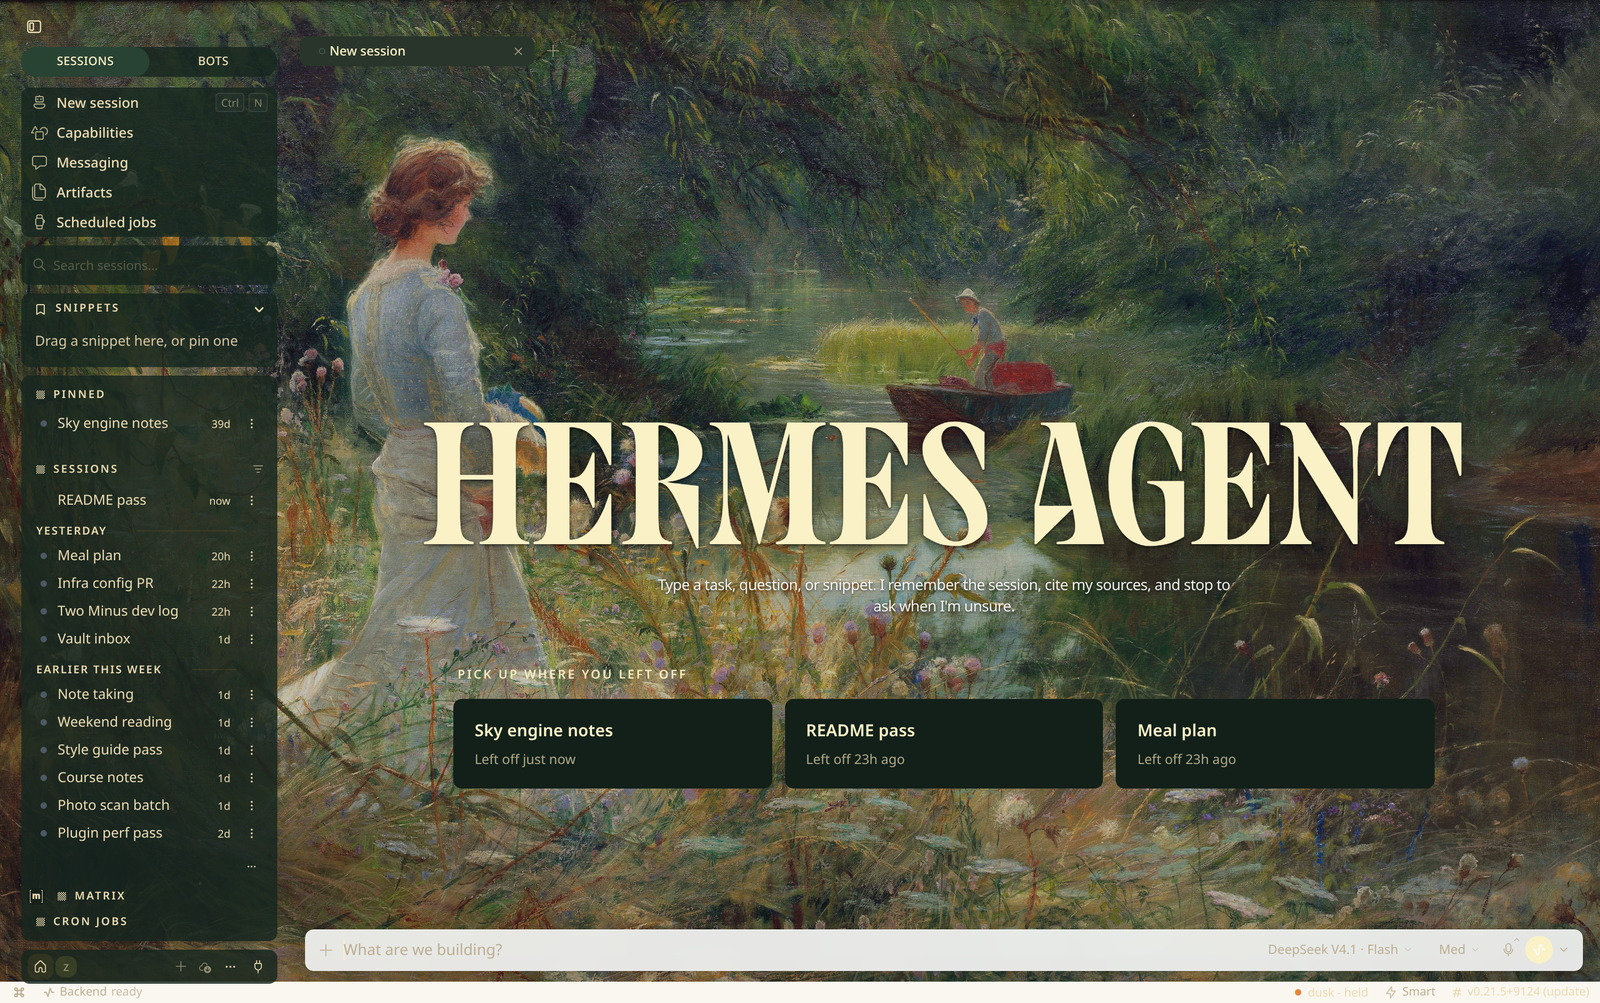
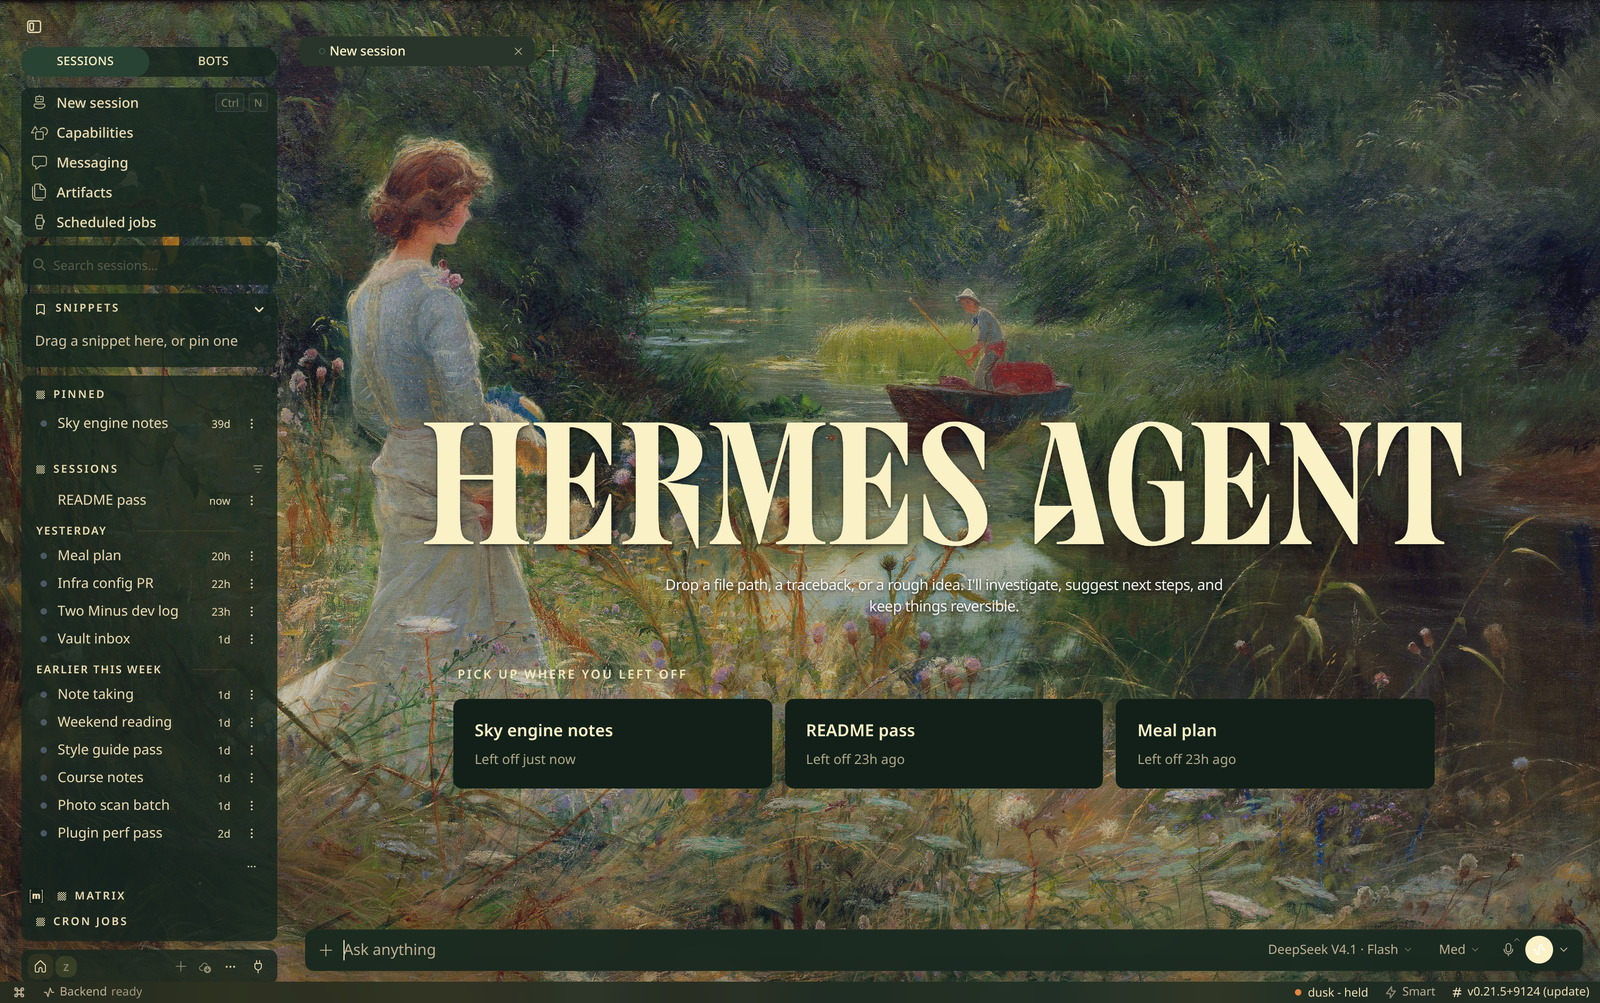
Give the composer its glass in every phase, and re-shoot on a cloudy sky
The composer's backing div paints --composer-fill, which the app mixes from
--dt-card; under a sky theme in light mode that is near-white, and the surface's
own translucent gradient then painted over it, so the bar read as a lighter
material than the cards beside it. Only the night branch ever set the fill.
The status bar had the same problem and now takes the tint too.

README screenshots re-captured on the cloudy preset.

Changed region(s): [[0.0, 0.9272, 1.0, 1.0], [0.4062, 0.5563, 0.7812, 0.6181]]

diff --git a/plugin.js b/plugin.js
@@ -624,6 +624,24 @@ const polishCss = (gruv = false) => [
   "html body :focus-visible { outline: 1.5px solid rgba(var(--zf-hi), 0.38) !important; outline-offset: 2px; border-color: rgba(var(--zf-hi), 0.28) !important; }",
   "html body :is([data-slot='composer-rich-input'], [data-slot^='composer'] textarea, [data-slot^='composer'] [contenteditable='true'], [data-slot^='composer'] input):is(:focus, :focus-visible) { outline: none !important; box-shadow: none !important; border-color: transparent !important; }",
   "html body [data-slot='composer-surface']:focus-within { box-shadow: inset 0 0 0 1px rgba(var(--zf-hi), 0.16), var(--zf-lift, 0 8px 24px rgba(0,0,0,.3)) !important; }",
+  // The composer's backing div paints `--composer-fill`, which the app mixes out
+  // of --dt-card; under a sky theme in light mode that resolves to near-white, so
+  // the bar read as a lighter material than the cards beside it. Give it the same
+  // glass every other surface wears, in every phase — the night branch below only
+  // ever covered the dark hours.
+  ":is([data-slot='composer-root'], [data-slot='composer-surface'], [class~='group/composer-surface']) {",
+  '  --composer-fill: color-mix(in srgb, var(--zf-tint) 88%, transparent) !important;',
+  '}',
+  ":is([data-slot='composer-surface'], [class~='group/composer-surface']) > div:first-child,",
+  ":is([data-slot='composer-surface'], [class~='group/composer-surface']) [class*='composerInputBacking'] {",
+  '  background: color-mix(in srgb, var(--zf-tint) 88%, transparent) !important;',
+  '}',
+  // The status bar is app chrome at the window's foot; untouched it paints the
+  // theme's opaque surface and cuts a pale band across the sky.
+  "[data-slot='statusbar'] {",
+  '  background: color-mix(in srgb, var(--zf-tint) 74%, transparent) !important;',
+  '  backdrop-filter: var(--zf-frost) !important;',
+  '}',
   // a session opened through the row's own menu: the menu is the mechanism, not
   // something to watch, so it stays invisible while it is driven
   "html[data-zf-ghost-menu='1'] :is([data-radix-popper-content-wrapper], [role='menu']) { opacity: 0 !important; pointer-events: none !important; }",
